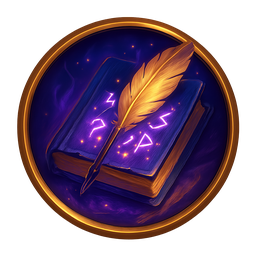
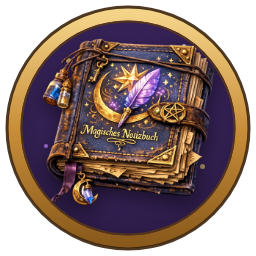
Neues Notizbuch-Artwork fuer die Shop-Kategorie Notizbloecke
Vom User geliefertes Bild (Magisches Notizbuch) in den runden Goldring
der Kategorie-Icons gesetzt und lobby/cat-tokens.png ersetzt.
Cache-Bust: cat-Icons ?v=2, app.js v147.

Claude-Session: https://claude.ai/code/session_01MGnrpYm1rjF2AQZegA46XA

diff --git a/app.js b/app.js
@@ -803,7 +803,7 @@ function shopHeader() {
   ];
   const catBtns = cats.map(([k, lbl, ic]) => {
     const inner = PNG_ICONS.includes(ic)
-      ? `<img class="shopcat-ic" src="lobby/cat-${ic}.png?v=1" alt="" loading="lazy">`
+      ? `<img class="shopcat-ic" src="lobby/cat-${ic}.png?v=2" alt="" loading="lazy">`
       : `<span class="shopcat-emoji">${ic}</span>`;
     return `<button class="shopcat${shopCat === k ? ' active' : ''}" data-cat="${k}" type="button">
        <span class="shopcat-ring">${inner}</span>

diff --git a/index.html b/index.html
@@ -2514,6 +2514,6 @@
   window.addEventListener('pagehide', () => { dropFocus(); armInputs(); });
   window.addEventListener('pageshow', () => { dropFocus(); window.scrollTo(0, 0); });
 </script>
-<script type="module" src="./app.js?v=146"></script>
+<script type="module" src="./app.js?v=147"></script>
 </body>
 </html>
